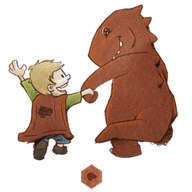
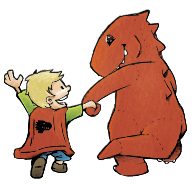
Handle non-retina devices, and use better images from @mart3ll!

diff --git a/lib/dinohome.js b/lib/dinohome.js
@@ -25,7 +25,10 @@ var run = function () {
     contentScript: `
       var logo = window.document.getElementById('brandLogo');
       if (${prefs.prefs.dinohome}) {
-        logo.style.backgroundImage = 'url("${self.data.url('dino@2x.png')}")';
+        var image = window.devicePixelRatio > 1 ?
+          'url("${self.data.url('dino@2x.png')}")' :
+          'url("${self.data.url('dino.png')}")';
+        logo.style.backgroundImage = image;
       } else {
         logo.style.backgroundImage = none;
       }`
